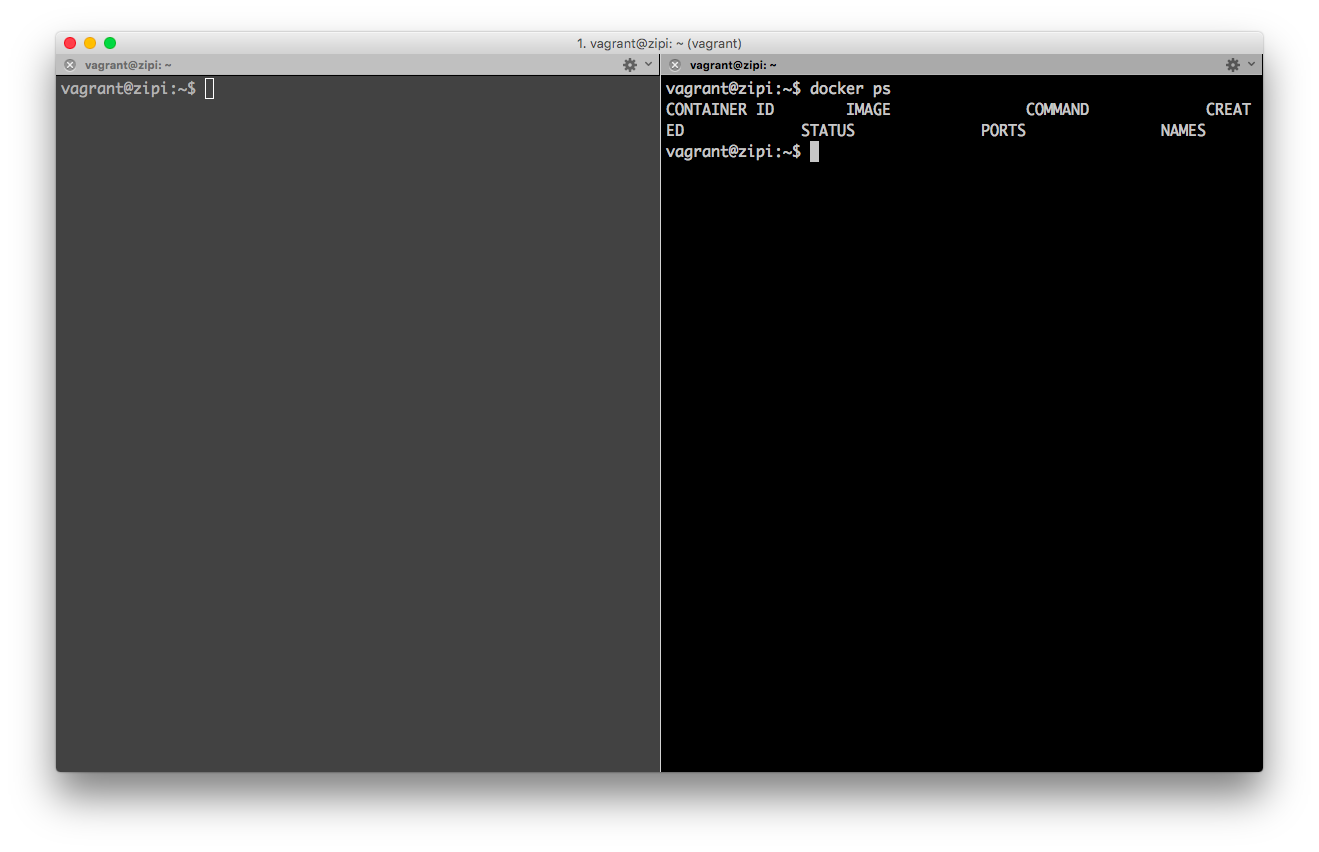
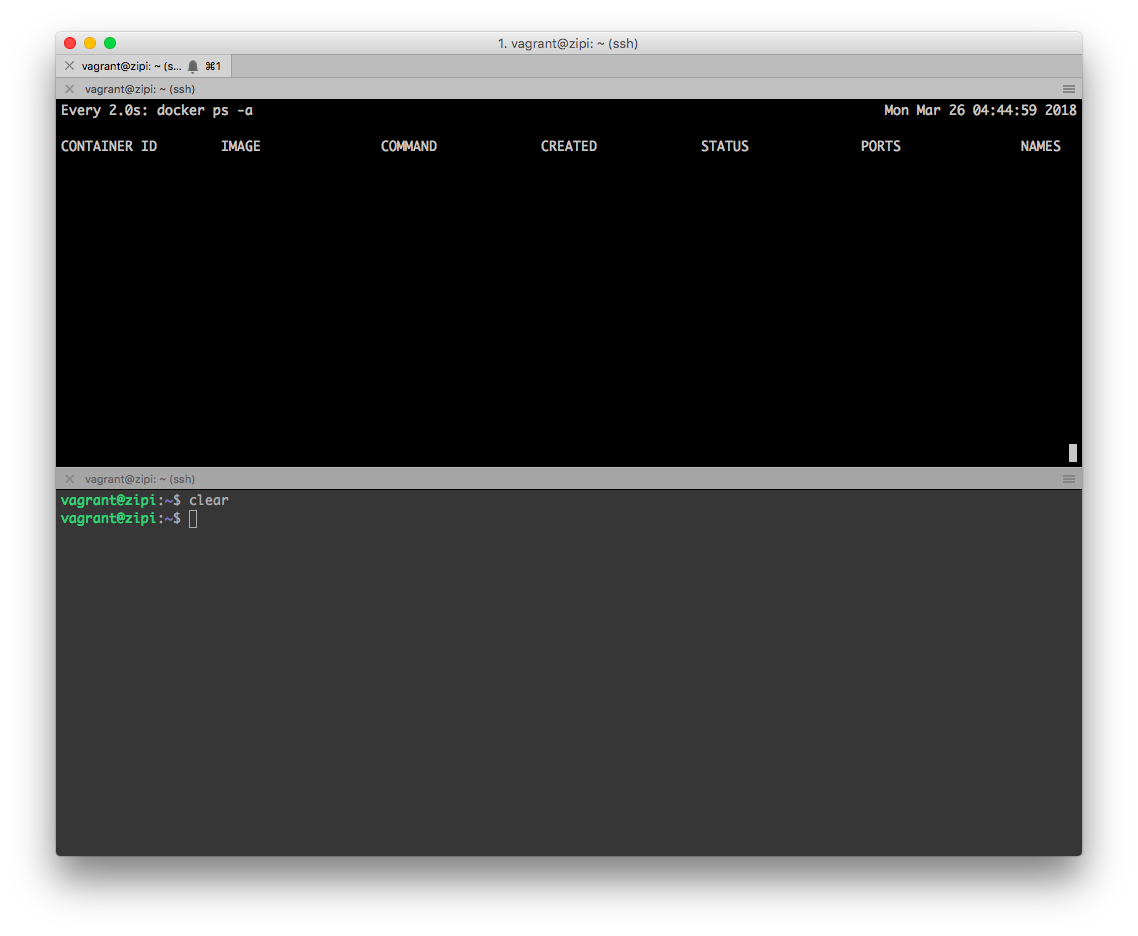
docker training ok

diff --git a/06_Docker/README.md b/06_Docker/README.md
@@ -9,24 +9,22 @@ Sigue las instrucciones paso a paso con la ayuda del instructor. Las prácticas 
 * Instalar Docker - https://docs.docker.com/engine/installation/
 
 * Abrir Git Bash (Windows) o Terminal (Linux/MacOSX)
-* Iniciamos máquina virtual:
+* Usaremos el terminal 1 (T1) para monitorizar los containers y entorno.
+* Usaremos el terminal 2 (T2) para trabajar con contenedores Docker.
+* Iniciamos máquina virtual
 
 ```shell
-vagrant up && vagrant ssh
+T1$ vagrant up && vagrant ssh
+T1$ watch docker ps -a
+
+T2$ vagrant ssh
 ```
 
-* Abrimos otro terminal siguiendo los pasos anteriores hasta obtener algo similar:
+* Deberiamos obtener algo similar:
 
 ![Terminales de trabajo](terminals.png)
 
-* Usaremos el terminal 1 para trabajar con contenedores Docker.
-* Usaremos el terminal 2 (T2) para monitorizar los containers con el comando siguiente
-
-```shell
-watch docker ps -a
-```
-
-## 1. "hello world"
+## 1. "hello world" (T2)
 
 ```shell
 docker run hello-world
@@ -38,15 +36,16 @@ docker run hello-world
 
 ```shell
 docker run -it busybox
-ls /
-hostname
-ps aux
-exit
+  ls /
+  hostname
+  ps aux
+  exit
 docker images
 ```
 
 * ¿Que sucede?
-* Contenedor usado: https://hub.docker.com/_/busybox/
+
+> Contenedor usado: https://hub.docker.com/_/busybox/
 
 ## 3. Interactuando con contenedores
 
@@ -54,8 +53,7 @@ docker images
 c_id=$(docker run --name docker_example -itd busybox)
 echo $c_id
 docker attach docker_example
-hostname
-exit
+  hostname
 ```
 
 * Apretamos CTRL+P & Q para volver a la VM de Vagrant
@@ -99,14 +97,17 @@ Compondremos un servidor de aplicaciones Python/Flask con una base de datos Redi
 ```shell
 docker pull redis
 docker pull python:2.7
-docker pull tomcat
 docker pull nginx
 ```
+
+* La idea es hacer esta infraestructura de aplicaciones:
+
+![Docker compose structure](./docker-compose01.png)
 
 * El script de Docker Compose:
 
 ```shell
-mkdir -p /vagrant/aitm-06_Docker && cd /vagrant/aitm-06_Docker
+mkdir -p /vagrant/aitm-06_Docker/01 && cd /vagrant/aitm-06_Docker/01
 vim docker-compose.yml
 ```
 
@@ -116,6 +117,7 @@ vim docker-compose.yml
 version: '3'
 
 services:
+
   web:
     build: .
     command: python app.py
@@ -125,6 +127,7 @@ services:
      - .:/code
     links:
      - redis
+
   redis:
     image: redis
 ```
@@ -191,28 +194,33 @@ redis
 docker-compose up -d
 docker-compose ps
 docker-compose logs
-curl localhost:5000
 ```
 
 * ¿Que sucede?
+
+```shell
+curl localhost:5000
+```
+
 * Abrimos un navegador y vamos a http://127.0.0.1:5000/
 * ¿Que sucede?
 
 ```shell
-docker-compose stop
+docker-compose down
 ```
 
 * ¿Que sucede?
 
-## Composiciones avanzadas de Docker
+## 6. Composiciones avanzadas de Docker
 
-Compondremos varios servidores de aplicación Tomcat con balanceador de carga Nginx.
+La idea es hacer esta infraestructura de aplicaciones:
 
-## Ficheros de configuración
+![Docker compose structure](./docker-compose02.png)
 
 * Configuración del balanceo con Nginx:
 
 ```shell
+mkdir -p /vagrant/aitm-06_Docker/02 && cd /vagrant/aitm-06_Docker/02
 vim nginx.conf
 ```
 
@@ -241,9 +249,9 @@ http {
     # List of application servers
     upstream app_servers {
 
-        server tomcatapp1:8080;
-        server tomcatapp2:8080;
-        server tomcatapp3:8080;
+        server app1:5000;
+        server app2:5000;
+        server app3:5000;
 
     }
 
@@ -272,69 +280,152 @@ http {
 * El script de Docker Compose para Tomcat con Nginx:
 
 ```shell
-vim compose-tomcat.yml
+vim docker-compose.yml
+```
+
+* Añadimos...
+
+```yaml
+version: '3'
+
+volumes:
+  redis_data:
+
+services:
+
+  nginx:
+    image: nginx
+    restart: always
+    ports:
+      - "80:80"
+    volumes:
+      - ./nginx.conf:/etc/nginx/nginx.conf
+
+  app1:
+    build: .
+    restart: always
+    command: python app.py
+    expose:
+      - "5000"
+    volumes:
+      - .:/code
+
+  app2:
+    image: 02_app1
+    restart: always
+    command: python app.py
+    expose:
+      - "5000"
+    volumes:
+      - .:/code
+
+  app3:
+    image: 02_app1
+    restart: always
+    command: python app.py
+    expose:
+      - "5000"
+    volumes:
+      - .:/code
+
+  redis:
+    image: redis
+    expose:
+      - "6379"
+    volumes:
+      - "redis_data:/data"
+```
+
+* Salvamos y salimos con *:x*
+* El Dockerfile:
+
+```shell
+vim Dockerfile
+```
+
+* Añadimos...
+
+```shell
+FROM python:2.7
+ADD . /code
+WORKDIR /code
+RUN pip install -r requirements.txt
+```
+
+* Salvamos y salimos con *:x*
+* Código Python sobre entorno de Flask con conexión a Redis:
+
+```shell
+vim app.py
+```
+
+* Añadimos...
+
+```python
+from flask import Flask
+from redis import Redis
+import os, socket
+
+app = Flask(__name__)
+redis = Redis(host='redis', port=6379)
+
+@app.route('/')
+def hello():
+    redis.incr('hits')
+    return 'Hello World! I have been seen '+ str(redis.get('hits')) +' times from '+ str(socket.gethostname())
+
+if __name__ == "__main__":
+    app.run(host="0.0.0.0", debug=True)
+```
+
+* Salvamos y salimos con *:x*
+* Los requerimientos mínimos de Python
+
+```shell
+vim requirements.txt
 ```
 
 * Añadimos...
 
 ```
-nginx:
-  image: nginx
-  links:
-   - tomcatapp1:tomcatapp1
-   - tomcatapp2:tomcatapp2
-   - tomcatapp3:tomcatapp3
-  ports:
-   - "80:80"
-  volumes:
-   - nginx.conf:/etc/nginx/nginx.conf
-tomcatapp1:
-  image: tomcat
-  volumes:
-   - sample.war:/usr/local/tomcat/webapps/sample.war
-tomcatapp2:
-  image: tomcat
-  volumes:
-   - sample.war:/usr/local/tomcat/webapps/sample.war
-tomcatapp3:
-  image: tomcat
-  volumes:
-   - sample.war:/usr/local/tomcat/webapps/sample.war
+flask
+redis
 ```
 
-* Salvamos y salimos con *:x*
-* Descargamos el fichero WAR de muestra
-
-```shell
-wget https://github.com/carlessanagustin/DockerDo/raw/master/08_Compose/sample.war
-```
-
-## Pasamos a la acción
+## 7. Pasamos a la acción
 
 * Ejecutamos...
 
 ```shell
-$ docker-compose up -d -f compose-tomcat.yml
-T2$ docker-compose ps
-$ docker exec composetest_nginx_1 cat /etc/hosts
-$ docker exec composetest_tomcatapp1_1 ip a
-$ docker exec composetest_tomcatapp2_1 ip a
-$ docker exec composetest_tomcatapp3_1 ip a
-$ curl http://127.0.0.1/sample/
+docker-compose up -d
+docker-compose ps
+docker network ls
+docker volume ls
 ```
 
 * ¿Que sucede?
+* Ejecutamos...
 
-# Limpiamos en entorno
+```shell
+curl http://127.0.0.1/
+```
+
+* Abrimos un navegador y vamos a http://127.0.0.1:8081/
+* ¿Que sucede?
+
+# 8. Limpiamos en entorno
 
 ```
 docker-compose stop
 docker-compose rm
 ```
 
-# Eliminamos las instancias Vagrant
+* ¿Que sucede?
+
+# 9. Eliminamos las instancias Vagrant
 
 ```
+exit
 vagrant destroy -f
 ```
 
